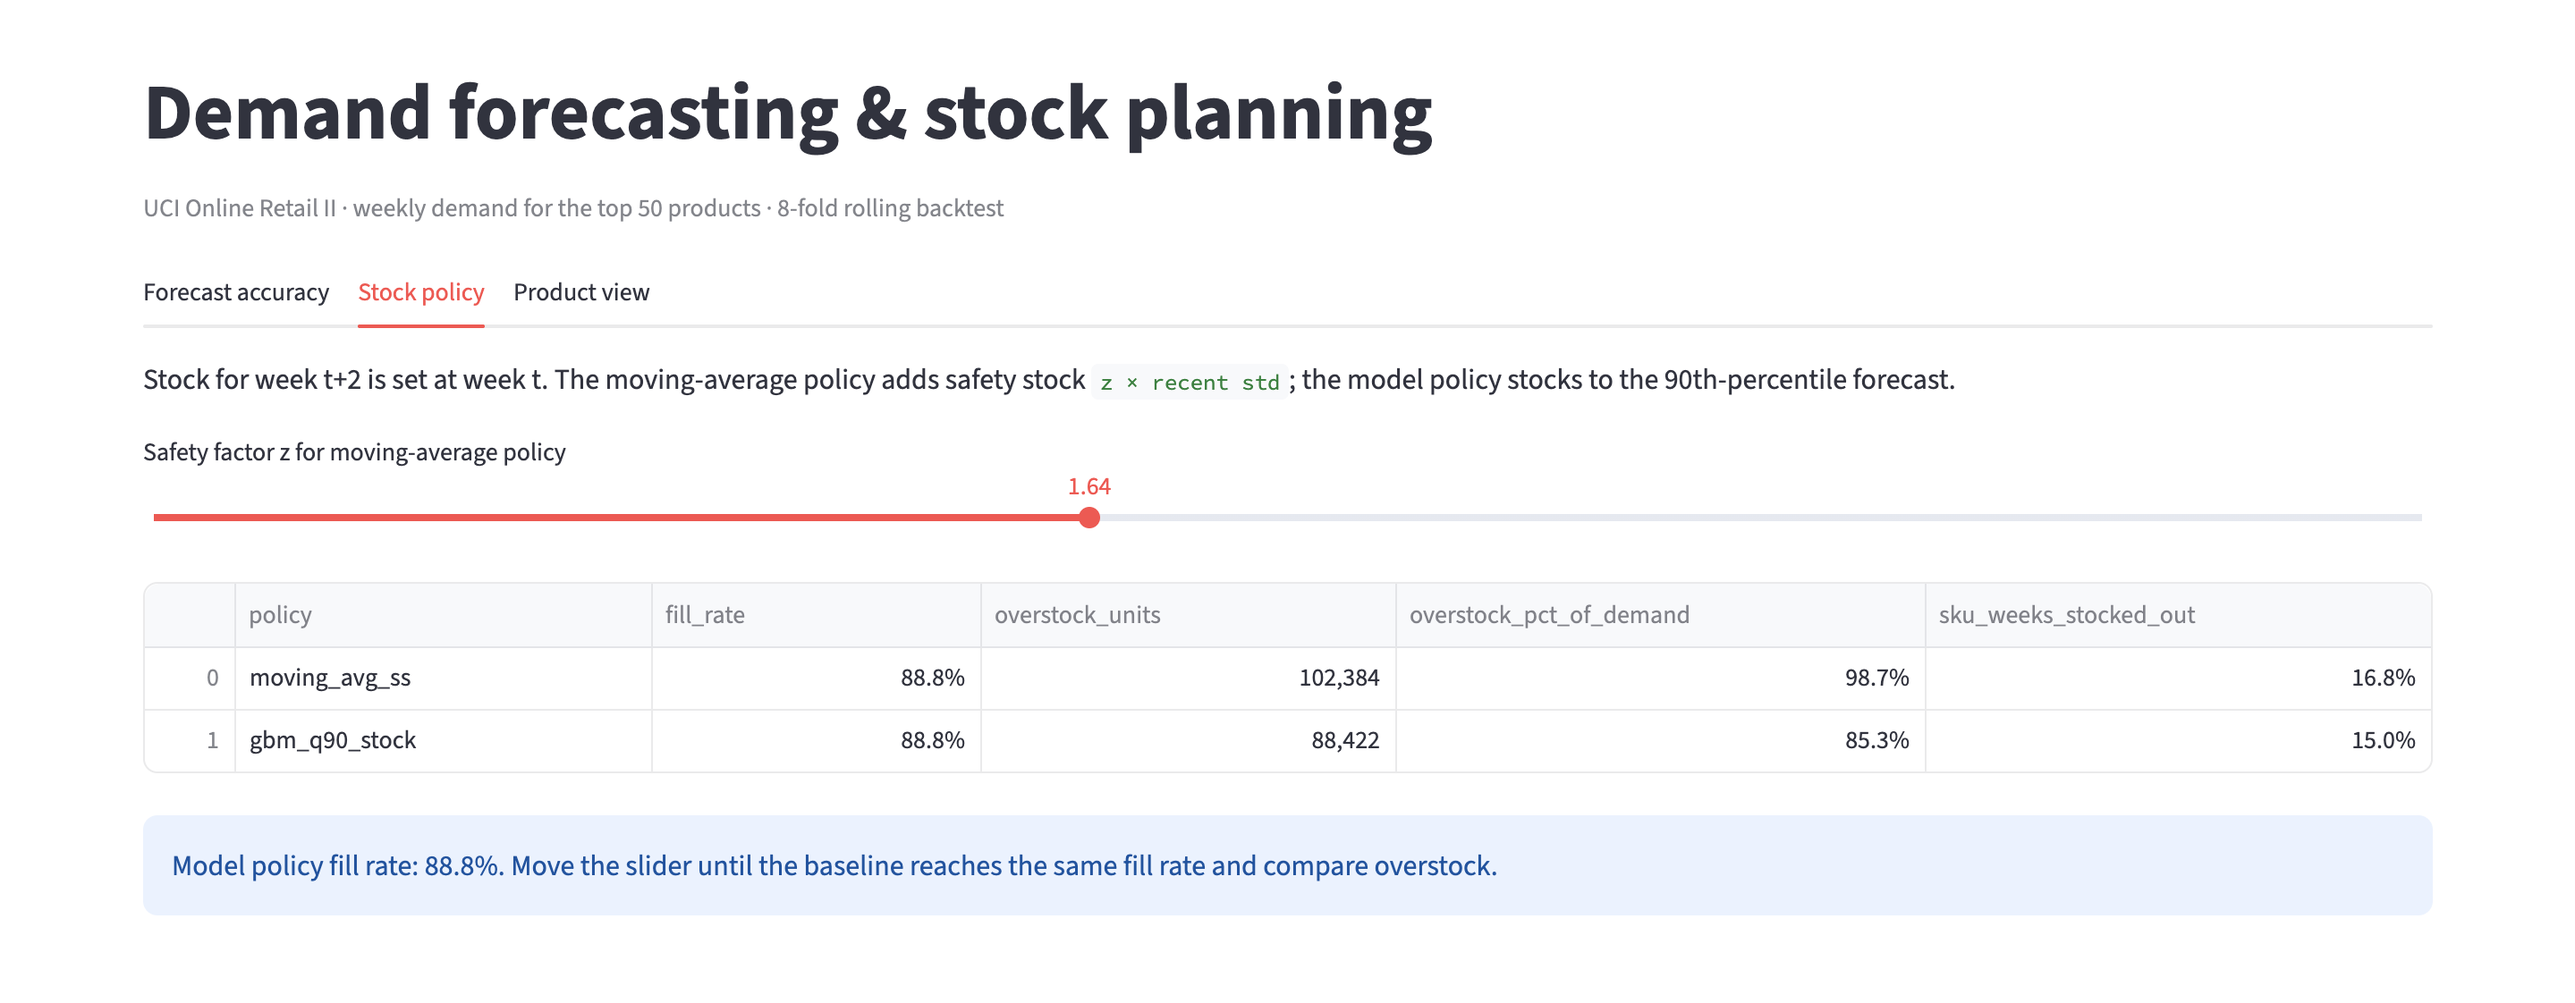
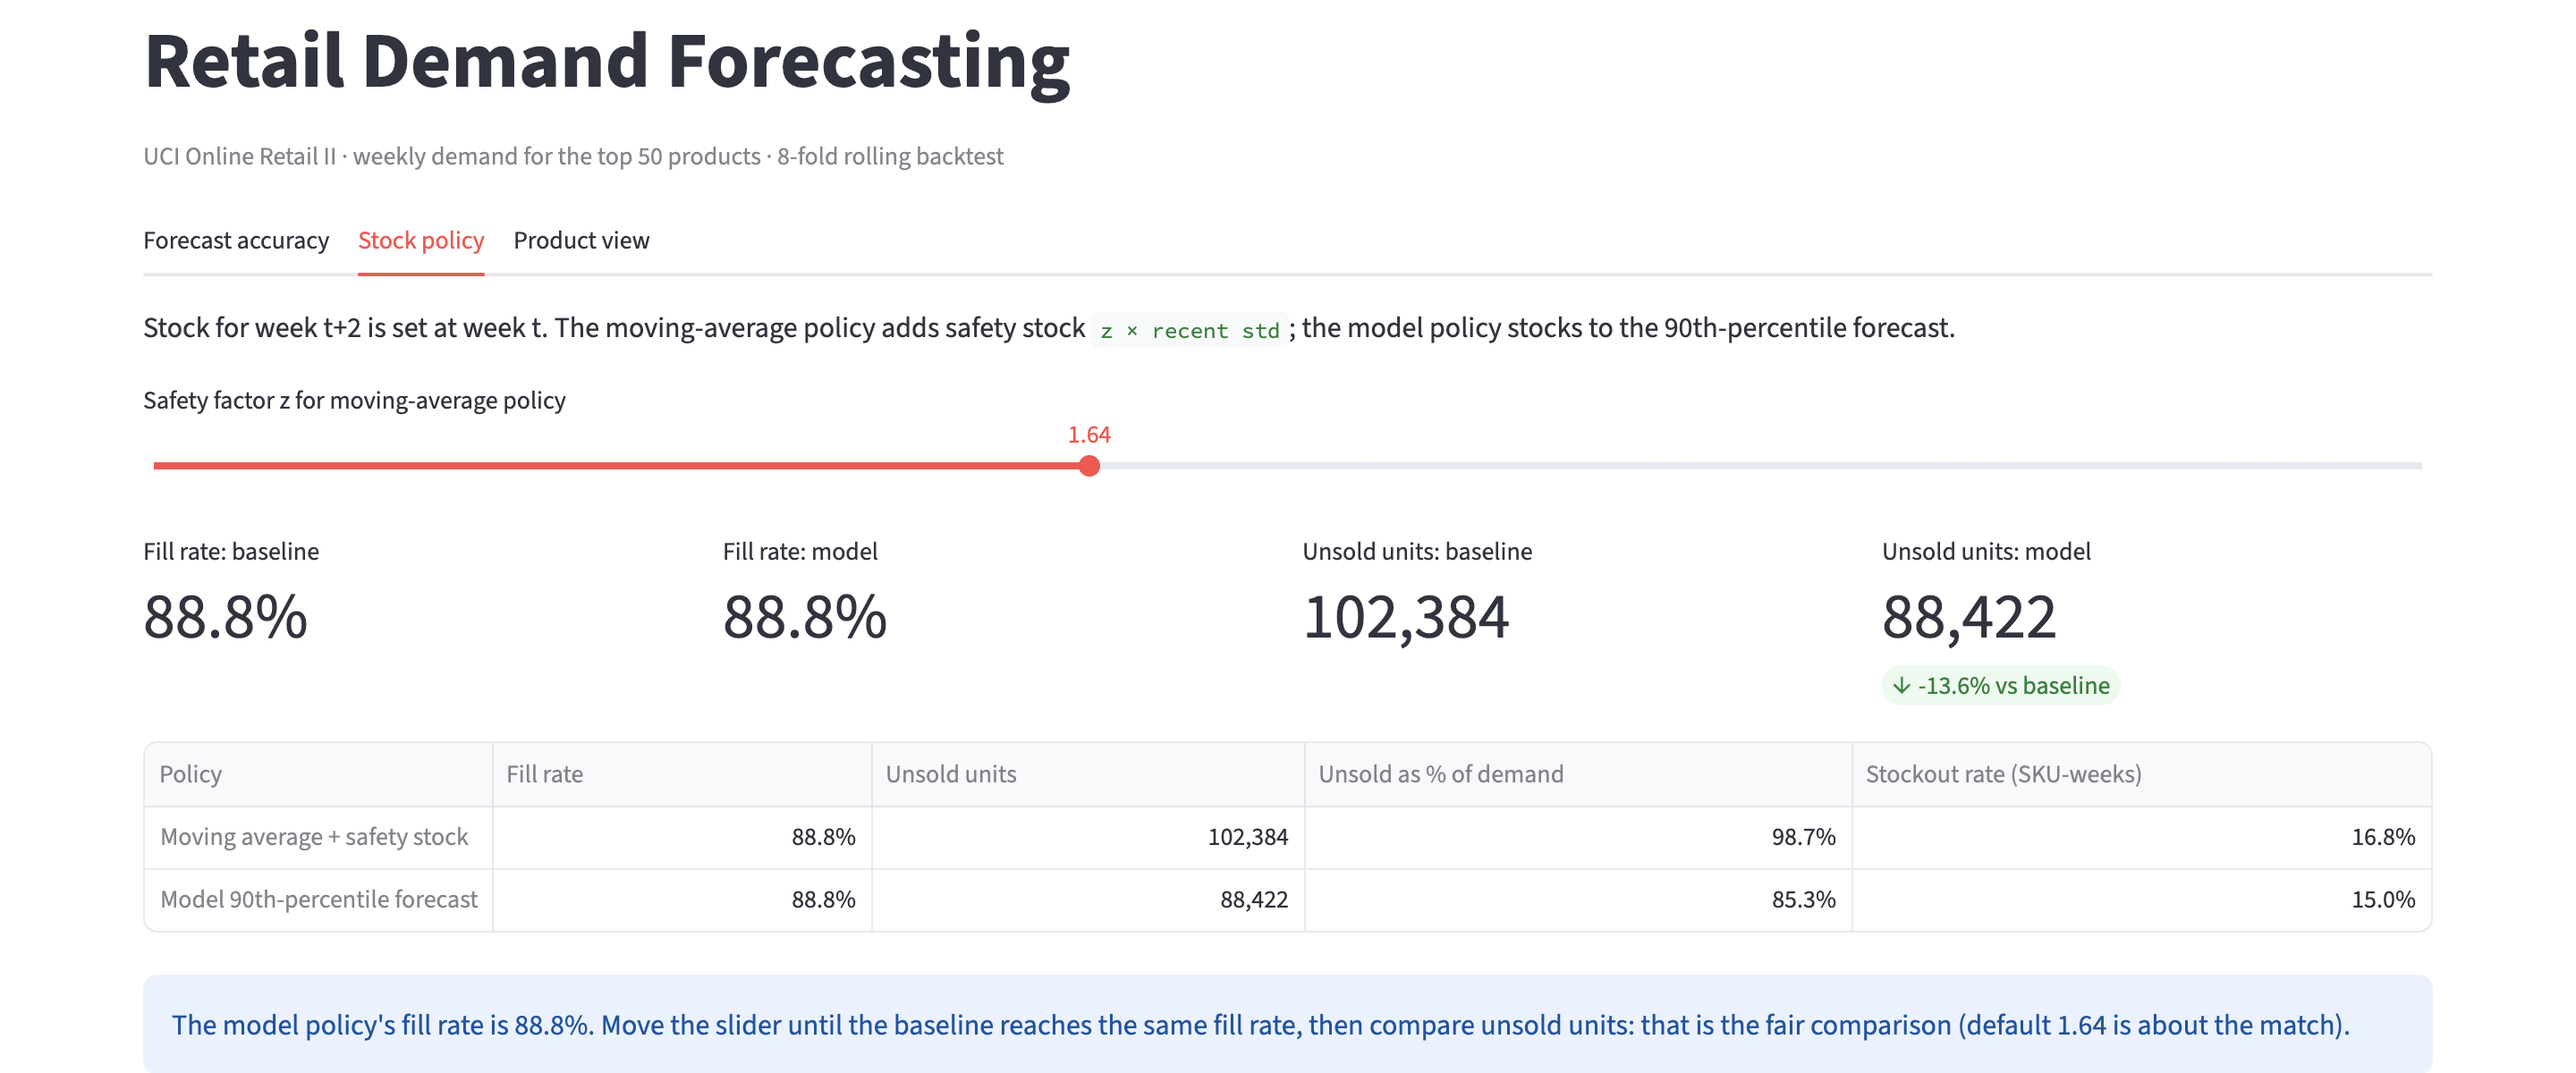
Add cropped dashboard screenshots; sort accuracy chart best-first

diff --git a/app.py b/app.py
@@ -31,7 +31,12 @@ tab1, tab2, tab3 = st.tabs(["Forecast accuracy", "Stock policy", "Product view"]
 with tab1:
     s = f.score(preds).assign(model=lambda d: d["model"].map(MODEL_NAMES))
     st.subheader("Forecast error by model (WAPE, lower is better)")
-    st.bar_chart(s.groupby("model")["wape"].mean().sort_values(), horizontal=True)
+    import altair as alt
+
+    avg = s.groupby("model", as_index=False)["wape"].mean()
+    st.altair_chart(alt.Chart(avg).mark_bar().encode(
+        y=alt.Y("model:N", sort="x", title=None, axis=alt.Axis(labelLimit=300)),
+        x=alt.X("wape:Q", title="WAPE"), tooltip=["model", alt.Tooltip("wape:Q", format=".3f")]), width="stretch")
     by_h = s.pivot_table(index="h", columns="model", values="wape").round(3)
     by_h.index.name = "Weeks ahead"
     st.dataframe(by_h, width="stretch")

diff --git a/README.md b/README.md
@@ -4,6 +4,8 @@
 
 ![Stock policy tab](docs/stock-policy.png)
 
+![Product view: actual demand vs backtest forecasts](docs/product-view.png)
+
 Forecast weekly product demand 1–4 weeks ahead for a wholesaler, then turn the forecasts into stock levels. On a backtest, the model-based policy carries **~14% less excess stock than a moving-average policy at the same fill rate**.
 
 ## Problem
